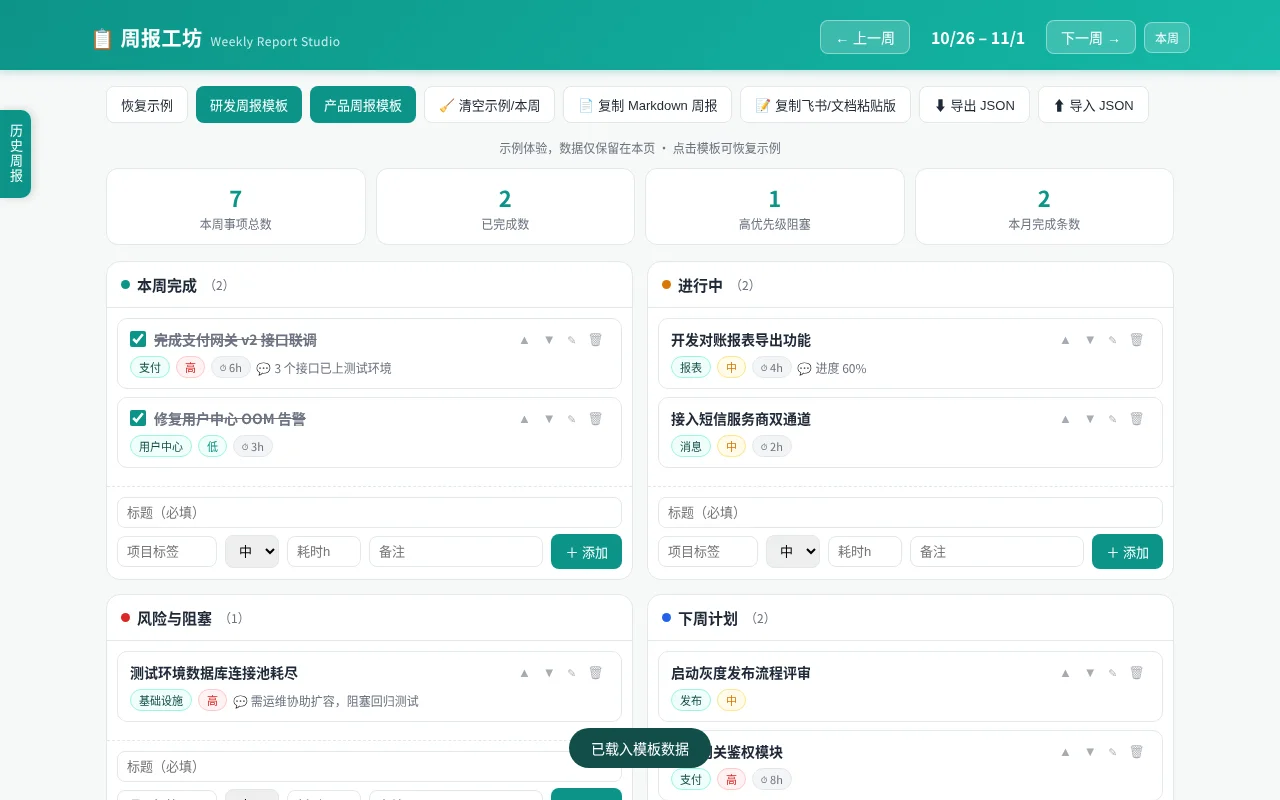
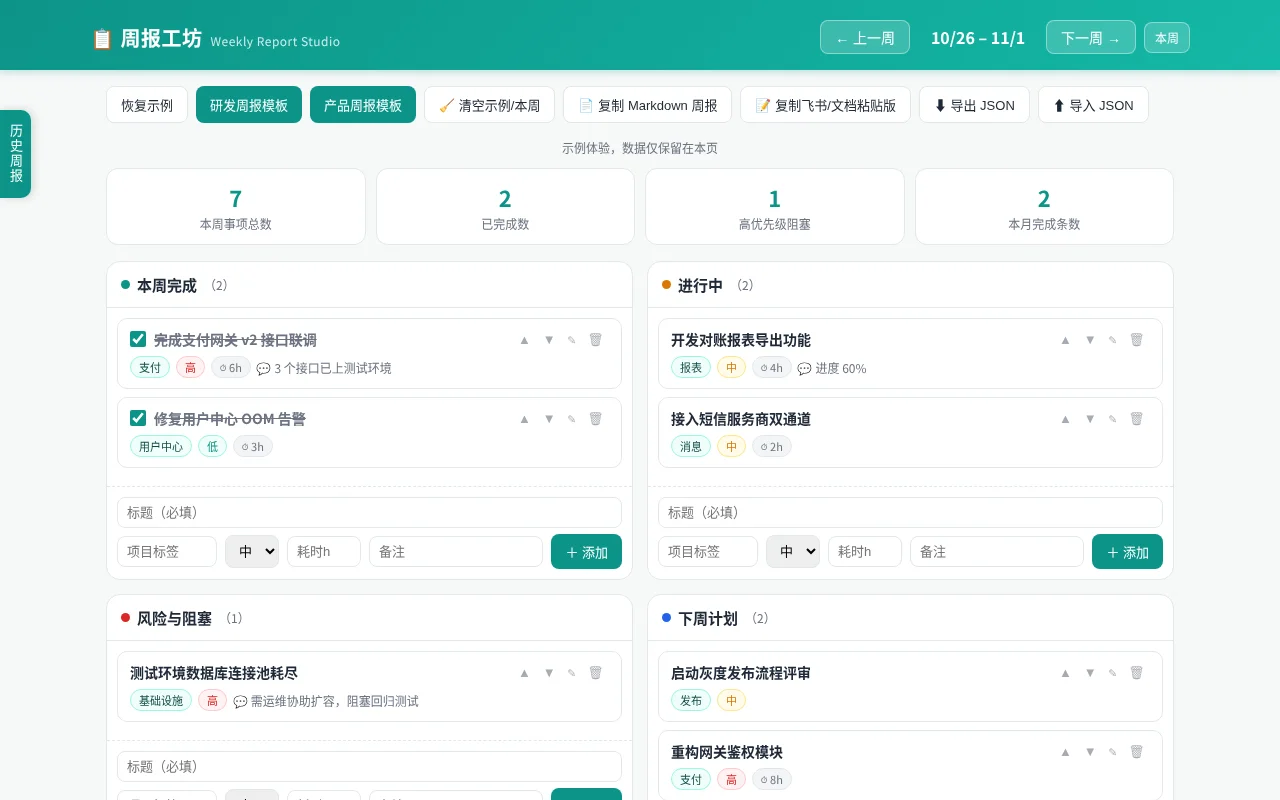
Finalize responsive weekly report template and preview

Changed region(s): [[0.4062, 0.1562, 0.5938, 0.2188], [0.4375, 0.9062, 0.5625, 0.9688]]

diff --git a/wb-weekly-report/showcase/preview.html b/wb-weekly-report/showcase/preview.html
@@ -96,6 +96,8 @@ footer .lock{color:var(--teal)}
 @media(max-width:640px){.drawer-toggle{top:auto;bottom:80px}.week-range{font-size:14px;min-width:auto}}
 
 .drawer{visibility:hidden}.drawer.open{visibility:visible}.af-row1 input{min-width:0;width:100%}.item-actions{flex:none} #cloudStatus{font-size:12px;color:var(--muted);text-align:center;margin-bottom:12px} body.busy #workspace{pointer-events:none;opacity:.7} .error-box{padding:20px;color:#991b1b} .drawer-mask{z-index:29} .drawer{z-index:30}
+
+body{overflow-x:hidden}
 </style><body>
 <header>
   <div class="header-row">
@@ -124,7 +126,7 @@ footer .lock{color:var(--teal)}
       <input type="file" id="importFile" accept=".json" style="display:none" onchange="importJson(event)">
     </div>
 
-    <div id="cloudStatus" role="status">示例体验，数据仅保留在本页 · 点击模板可恢复示例</div><div class="stats-bar" id="statsBar"></div><div class="cards" id="cards"></div></main>
+    <div id="cloudStatus" role="status">示例体验，数据仅保留在本页</div><div class="stats-bar" id="statsBar"></div><div class="cards" id="cards"></div></main>
 </div>
 
 
@@ -206,7 +208,7 @@ function loadTemplate(name){
 function confirmClear(){askConfirm("确定清空示例/本周所有事项？",()=>{const d=weekData();SECTIONS.forEach(s=>d[s.key]=[]);save();render();toast("已清空")})}
 
 /* ---------- render ---------- */
-function render(){
+function renderView(){
   document.getElementById("weekRange").textContent=weekRangeText(baseDate);
   currentWeekKey=weekKeyOf(baseDate);
   const d=weekData();
@@ -282,7 +284,7 @@ function addItem(sec){
   weekData()[sec].push(it);saveCurrentWeek();render();
 }
 function delItem(sec,idx){askConfirm("确定删除该条事项？",()=>{weekData()[sec].splice(idx,1);saveCurrentWeek();render();toast("已删除")})}
-function editItem(sec,idx){
+function editView(sec,idx){
   const d=weekData();const it=d[sec][idx];
   const body=document.querySelector(`.card-body[data-sec="${sec}"]`);
   body.innerHTML=`<div class="item edit-form">
@@ -390,7 +392,7 @@ function importJson(e){
 /* ---------- history drawer ---------- */
 function openDrawer(){document.getElementById("drawer").classList.add("open");renderHistory()}
 function closeDrawer(){document.getElementById("drawer").classList.remove("open")}
-function renderHistory(){
+function renderHistoryView(){
   const q=(document.getElementById("histSearch")?.value||"").trim().toLowerCase();
   const keys=Object.keys(store.weeks).filter(k=>store.weeks[k]).sort().reverse();
   const list=keys.map(k=>{
@@ -444,9 +446,14 @@ function validateBackup(data){
 }
 function startUI(){currentWeekKey=weekKeyOf(new Date());if(!Object.keys(store.weeks).length)loadTemplate("dev");else render()}
 
+function render(){renderView();bindUI()}
+function editItem(sec,idx){editView(sec,idx);bindUI()}
+function renderHistory(){renderHistoryView();bindUI()}
+
+function bindUI(){}
 function persistStore(){}
-function exportJson(){toast("示例体验不提供下载，安装后可导出备份")}
+function exportJson(){toast('示例体验不提供下载，安装后可导出备份')}
 function copyText(text,label){const box=document.createElement('textarea');box.value=text;box.setAttribute('aria-label',label);box.style.cssText='position:fixed;inset:15%;width:70%;height:60%;z-index:120';document.body.append(box);box.select();box.onkeydown=e=>{if(e.key==='Escape')box.remove()};box.onblur=()=>box.remove();toast('请选择文本复制，完成后点击其他位置')}
-function resetDemo(){store={weeks:{}};baseDate=curBase();currentWeekKey=weekKeyOf(baseDate);loadTemplate('dev');closeDrawer()}
-resetDemo();
+function resetDemo(){store={weeks:{}};baseDate=curBase();currentWeekKey=weekKeyOf(baseDate);document.querySelector('#histSearch').value='';loadTemplate('dev');closeDrawer()}
+resetDemo();document.querySelector('#toast').classList.remove('show');
 </script></body></html>

diff --git a/wb-weekly-report/src/style.css b/wb-weekly-report/src/style.css
@@ -96,3 +96,5 @@ footer .lock{color:var(--teal)}
 @media(max-width:640px){.drawer-toggle{top:auto;bottom:80px}.week-range{font-size:14px;min-width:auto}}
 
 .drawer{visibility:hidden}.drawer.open{visibility:visible}.af-row1 input{min-width:0;width:100%}.item-actions{flex:none} #cloudStatus{font-size:12px;color:var(--muted);text-align:center;margin-bottom:12px} body.busy #workspace{pointer-events:none;opacity:.7} .error-box{padding:20px;color:#991b1b} .drawer-mask{z-index:29} .drawer{z-index:30}
+
+body{overflow-x:hidden}

diff --git a/wb-weekly-report/src/shell.html b/wb-weekly-report/src/shell.html
@@ -4,7 +4,7 @@
     <div class="logo">📋 周报工坊<small>Weekly Report Studio</small></div>
     <div class="week-nav">
       <button onclick="shiftWeek(-1)">← 上一周</button>
-      <span class="week-range" id="weekRange">10/26 – 11/1</span>
+      <span class="week-range" id="weekRange"></span>
       <button onclick="shiftWeek(1)">下一周 →</button>
       <button class="today-btn" onclick="goToday()">本周</button>
     </div>

diff --git a/wb-weekly-report/spec/product.md b/wb-weekly-report/spec/product.md
@@ -4,7 +4,7 @@
 
 统计当前周总事项、本周完成分区条数、高优先级风险条数；本月完成为查看周周一所属公历月内所有周一的完成分区条数。Markdown 使用四个二级标题与项目/优先级/耗时/备注，飞书粘贴版使用四个方括号标题、编号列表及项目/耗时/备注。复制失败提供可选中文本。JSON 备份包含所有周，可导出并导入覆盖；导入前严格检查周键、四分区数组、事项字段及大小，失败不更改已有数据。
 
-数据通过运行时连接持久化到应用绑定 SQLite，不依赖浏览器持久存储。应用内存缓存用于切换与搜索；每次写入保存单周，版本条件防止旧页面覆盖新数据。冲突或写入结果不明时停止编辑并提供重新读取，不自动重放写入。不同安装使用独立数据库。仅作个人周报使用，不含成员和共同编辑流程。
+数据通过运行时连接持久化到应用绑定 SQLite，不依赖浏览器持久存储。应用内存缓存用于切换与搜索；每次写入原子保存周报归档，版本条件防止旧页面覆盖新数据。冲突或写入结果不明时停止编辑并提供重新读取，不自动重放写入。不同安装使用独立数据库。仅作个人周报使用，不含成员和共同编辑流程。
 
 视觉采用青绿渐变顶部、浅灰背景、白色卡片：主色 #0d9488、渐变终点 #14b8a6、背景 #f6f8f8、文字 #1f2937、边框 #e5e7eb。系统中文无衬线字体；顶部标题 20px/700、周导航14px、区标题15px、事项14px、按钮13px。头部 sticky，内容最大1100px，内边距16px，卡片双列间距14px、圆角14px；统计四列、圆角12px；860px以下卡片单列、统计两列。历史入口左侧竖排、右抽屉320px/最大88vw，滑入250ms；按钮与事项150ms；底部toast淡入滑入300ms、2200ms消失。删除使用页面内确认框。手机保留相同入口与顺序，表单自动换行。
 
